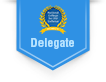
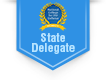
updated the attorney's lists to include their location. also updated the state delegate executive badge to say State Delegate..used to say just Delegate

Changed region(s): [[0.283, 0.0244, 0.7075, 0.6585]]

diff --git a/src/Saw/Model/Member.php b/src/Saw/Model/Member.php
@@ -356,6 +356,7 @@ class Member extends User {
 					,'listed'=>1
 					,'websites'=>1
 					,'orderNum'=>1
+					,'location'=>1
 					);
 
 		switch ($string) {
@@ -411,6 +412,12 @@ class Member extends User {
 				}else{
 					$result = $this->find($query=array('currentMembership'=>self::$membership['FOUNDING MEMBER']),$fields,true,$sort=array('currentOrder'=>-1,'orderNum'=>1),$offset=0,$limit=3000);		
 				}
+				$i=0;
+				foreach ($result as $key => $value) {
+					$location_result = self::$app['mongo']->findOne('location', $query=array('member._id'=>$value['_id']),array('raw'=>true),$slaveOkay=true);
+					$result[$i]['location'] = array('raw'=>$location_result['raw']);
+					$i++;
+				}
 				break;
 			case 'Regents and Fellows':
 				if($listedOnly){
@@ -428,7 +435,12 @@ class Member extends User {
 					endforeach;
 					$result = $regents;
 				}
-				
+				$i=0;
+				foreach ($result as $key => $value) {
+					$location_result = self::$app['mongo']->findOne('location', $query=array('member._id'=>$value['_id']),array('raw'=>true),$slaveOkay=true);
+					$result[$i]['location'] = array('raw'=>$location_result['raw']);
+					$i++;
+				}
 				break;
 			case 'Regents':
 				$result = $this->find($query=array('currentFacultyPosition'=>array('$gt'=>self::$facultyPosition['DELEGATE'],'$lt'=>self::$facultyPosition['FELLOW'])),$fields,true,$sort=array('currentOrder'=>-1,'orderNum'=>1),$offset=0,$limit=3000);		
@@ -441,6 +453,12 @@ class Member extends User {
 				break;
 			case 'State Delegates':
 				$result = $this->find($query=array('currentFacultyPosition'=>self::$facultyPosition['DELEGATE']),$fields,true,$sort=array('currentOrder'=>-1,'orderNum'=>1),$offset=0,$limit=3000);		
+				$i=0;
+				foreach ($result as $key => $value) {
+					$location_result = self::$app['mongo']->findOne('location', $query=array('member._id'=>$value['_id']),array('raw'=>true),$slaveOkay=true);
+					$result[$i]['location'] = array('raw'=>$location_result['raw']);
+					$i++;
+				}
 				break;
 			case 'Board Certified':
 				$result = $this->find($query=array('boardCertified'=>1),$fields,true,$sort=array('currentOrder'=>-1,'orderNum'=>1),$offset=0,$limit=3000);		
